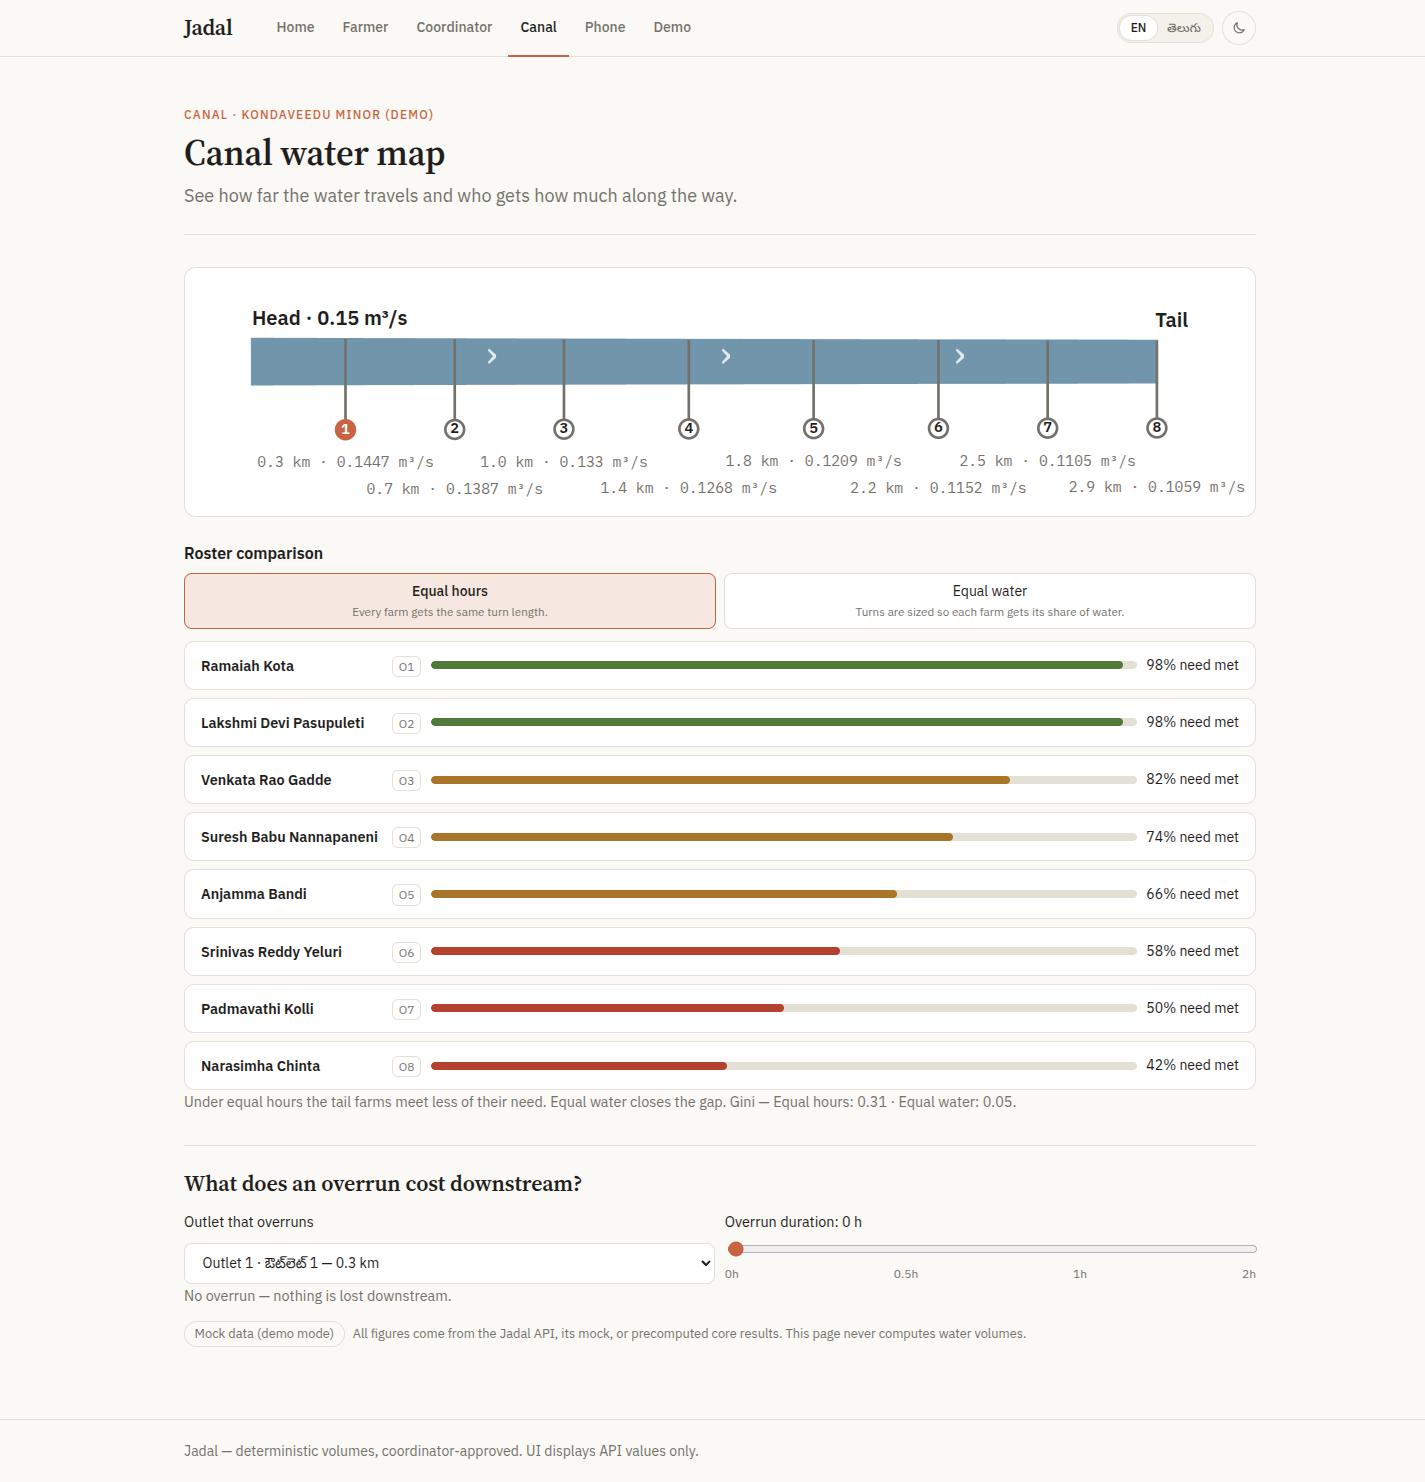
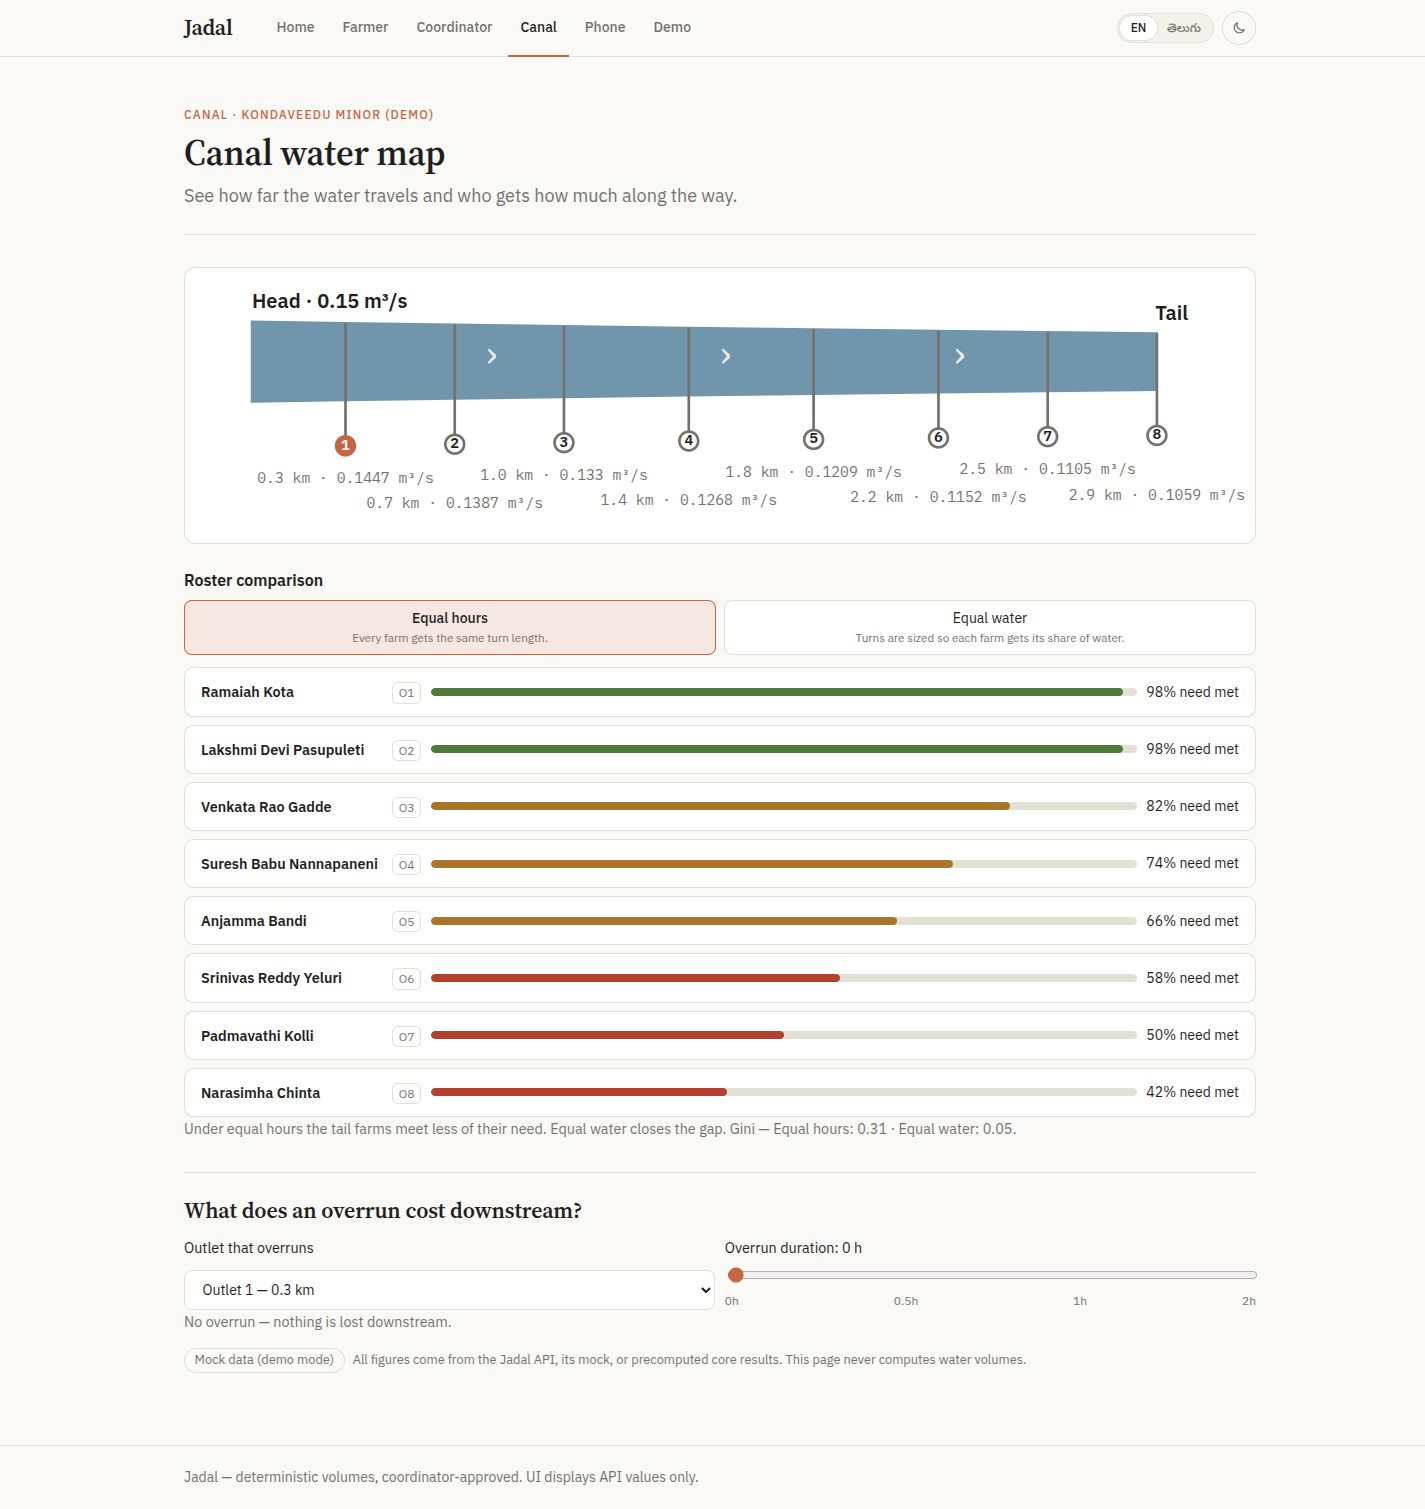
fix(web): taper canal ribbon with flow; single-language outlet names

diff --git a/apps/web/src/canal/CanalVisual.tsx b/apps/web/src/canal/CanalVisual.tsx
@@ -10,18 +10,18 @@ import "./canal.css";
 /* Display-only geometry. These map a SUPPLIED flow (m3/s from data) to pixels;
    they never create water numbers. */
 const SVG_W = 800;
-const SVG_H = 185;
+const SVG_H = 205;
 const PAD_X = 50;
 const CENTER_Y = 70;
-const BASE_HALF_H = 12;
-const PX_PER_M3S = 34;
+/* Ribbon half-height is proportional to the supplied flow, so it tapers from head to tail. */
+const PX_PER_M3S = 200;
 
 function xForChainage(chainage_m: number, length_m: number): number {
   return PAD_X + (chainage_m / length_m) * (SVG_W - PAD_X * 2);
 }
 
 function halfH(flow_m3s: number): number {
-  return BASE_HALF_H + flow_m3s * PX_PER_M3S;
+  return flow_m3s * PX_PER_M3S;
 }
 
 /** "English · Telugu" when a Telugu form exists, otherwise just the English name. */
@@ -68,6 +68,8 @@ function CanalVisualView({ data, source }: { data: CanalVisualData; source: Data
   const [stepIdx, setStepIdx] = useState(0);
 
   const t = STR[lang];
+  /** Name in the active language only (falls back to English when no Telugu form exists). */
+  const one = (en: string, te: string): string => (lang === "te" && te ? te : en);
   const steps = data.overrunSteps;
   const hours = steps[stepIdx] ?? 0;
   const needRows = getNeedMet(data, mode);
@@ -212,7 +214,7 @@ function CanalVisualView({ data, source }: { data: CanalVisualData; source: Data
             <select value={overrunOutlet} onChange={(e) => setOverrunOutlet(e.target.value)}>
               {data.outlets.map((o) => (
                 <option key={o.id} value={o.id}>
-                  {bi(o.name, o.name_te)} — {(o.chainage_m / 1000).toFixed(1)} {t.kmUnit}
+                  {one(o.name, o.name_te)} — {(o.chainage_m / 1000).toFixed(1)} {t.kmUnit}
                 </option>
               ))}
             </select>
@@ -255,7 +257,7 @@ function CanalVisualView({ data, source }: { data: CanalVisualData; source: Data
                   return (
                     <tr key={id}>
                       <td>
-                        {o ? bi(o.name, o.name_te) : id}
+                        {o ? one(o.name, o.name_te) : id}
                       </td>
                       <td>{lost.toLocaleString("en-IN")}</td>
                     </tr>
